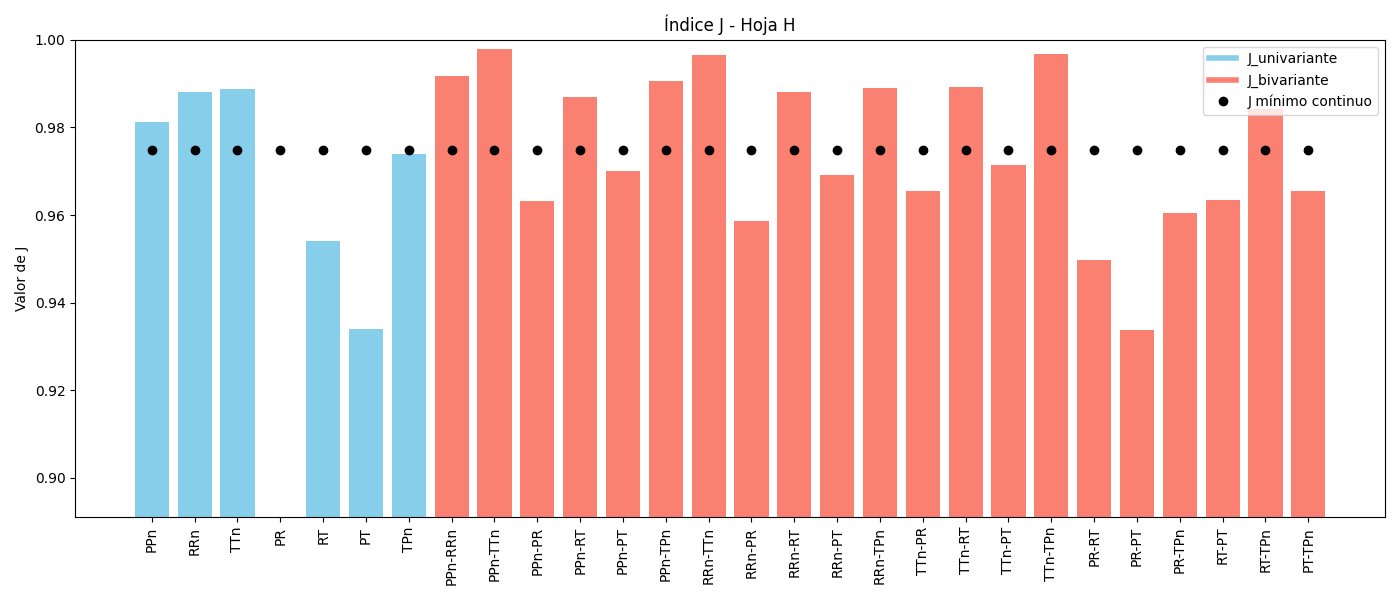
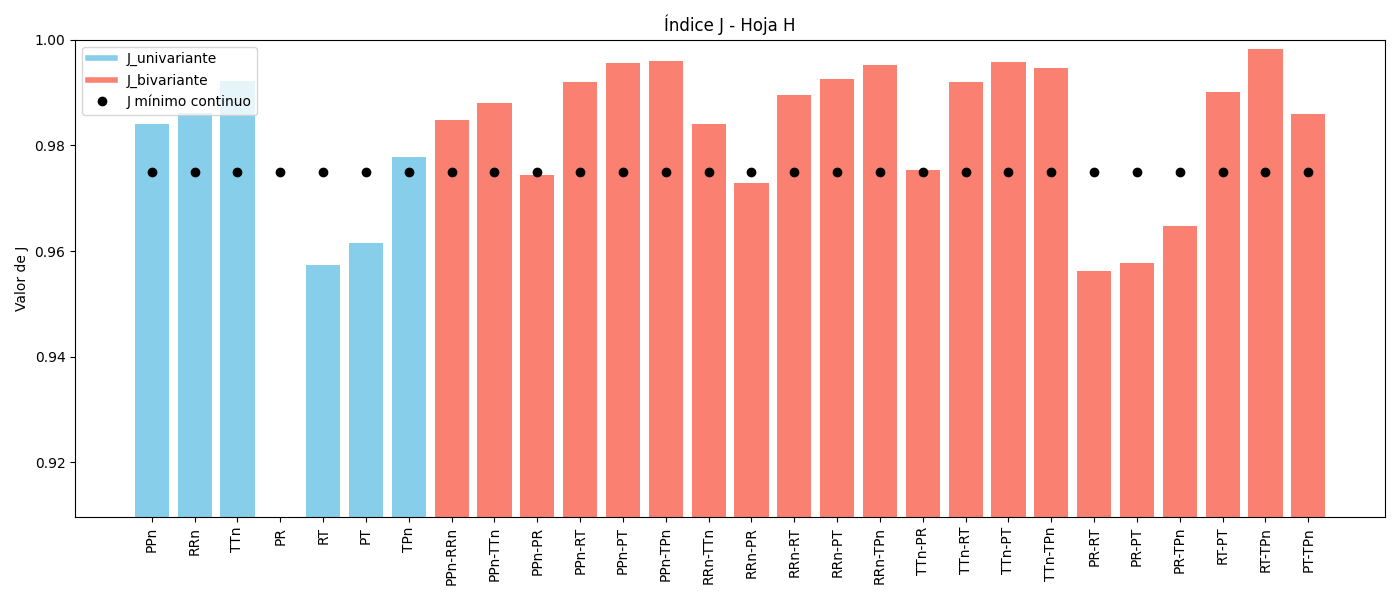
gamma-J-correlacion

diff --git a/EDUARDO JOTA GAMA/J/prueba_multiprocess.py b/EDUARDO JOTA GAMA/J/prueba_multiprocess.py
@@ -144,7 +144,7 @@ def calcular_gamma_opt(data, gamma_index, MS):
 # ==== PARÁMETROS CONFIGURABLES ====
 usar_archivos_guardados = False
 method = 'lineal'
-size = 2
+size = 0
 MS = 1.0
 indice_gamma = 1
 
